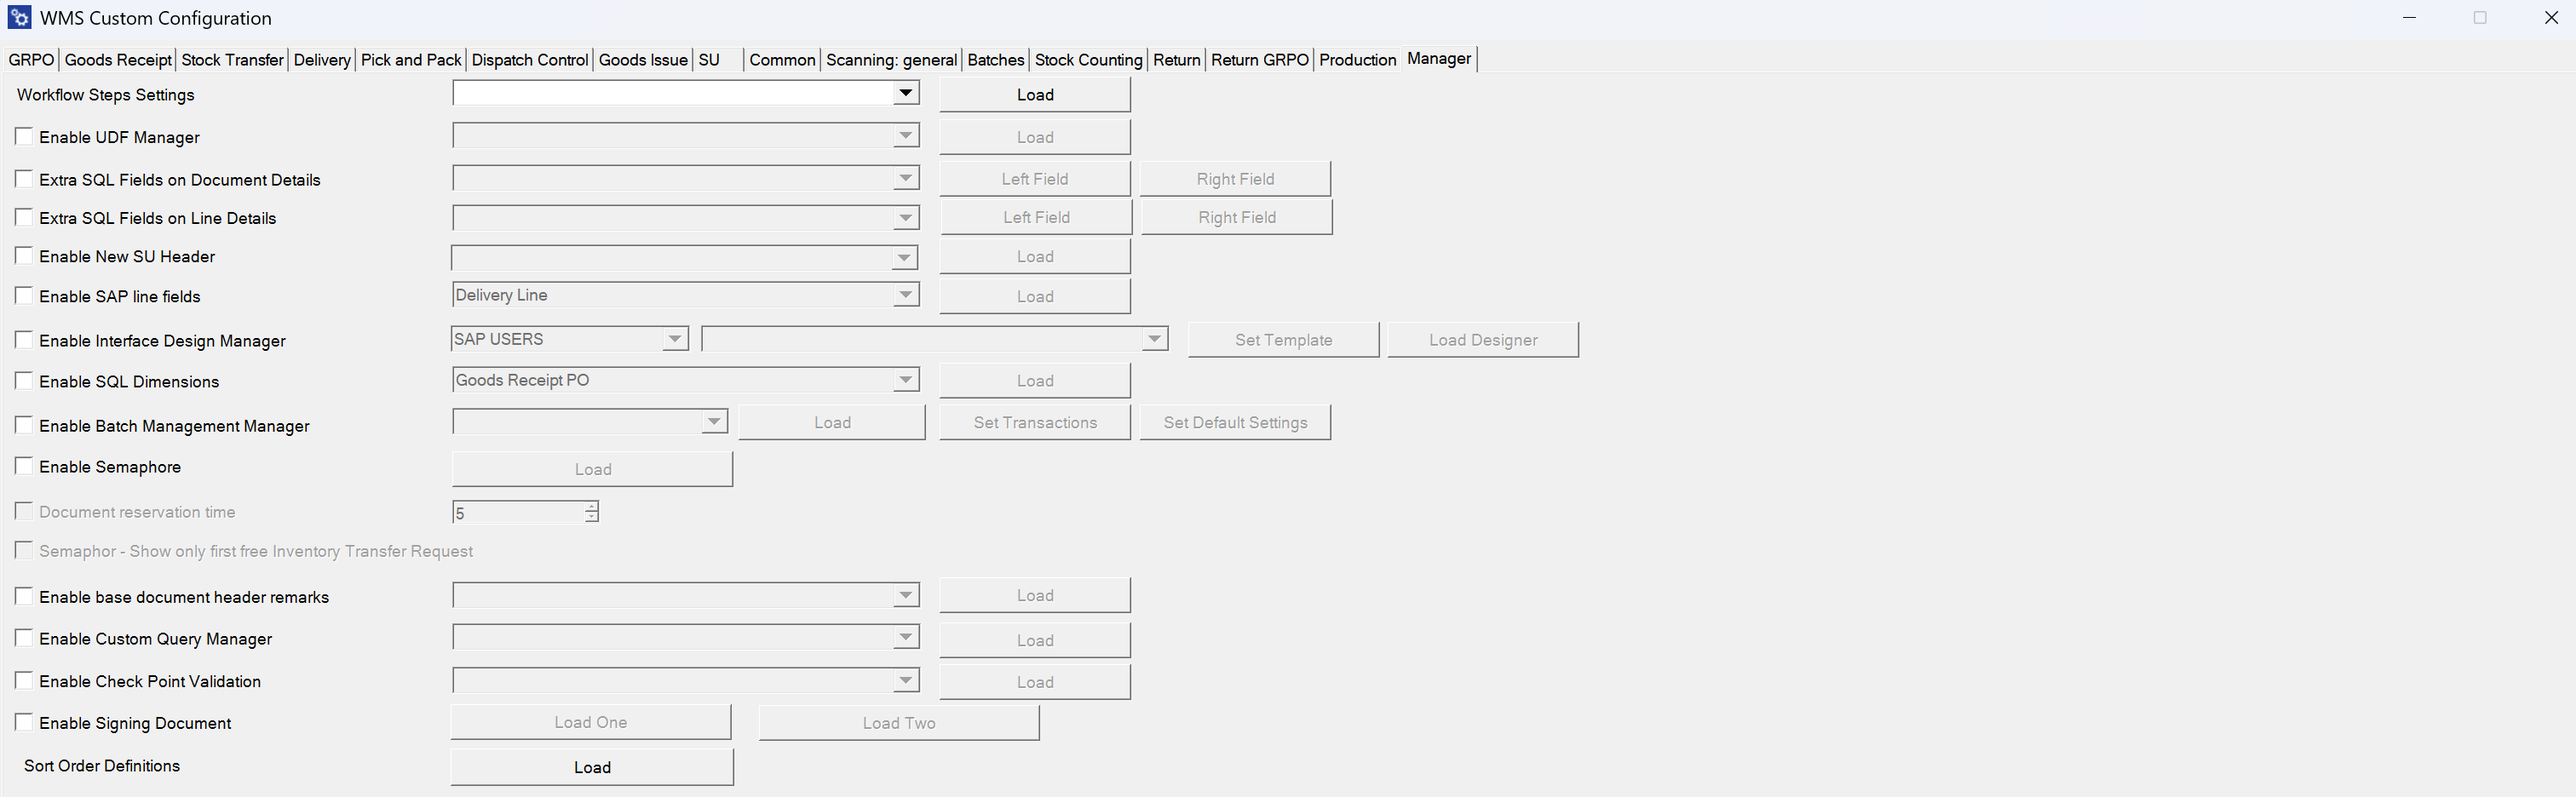
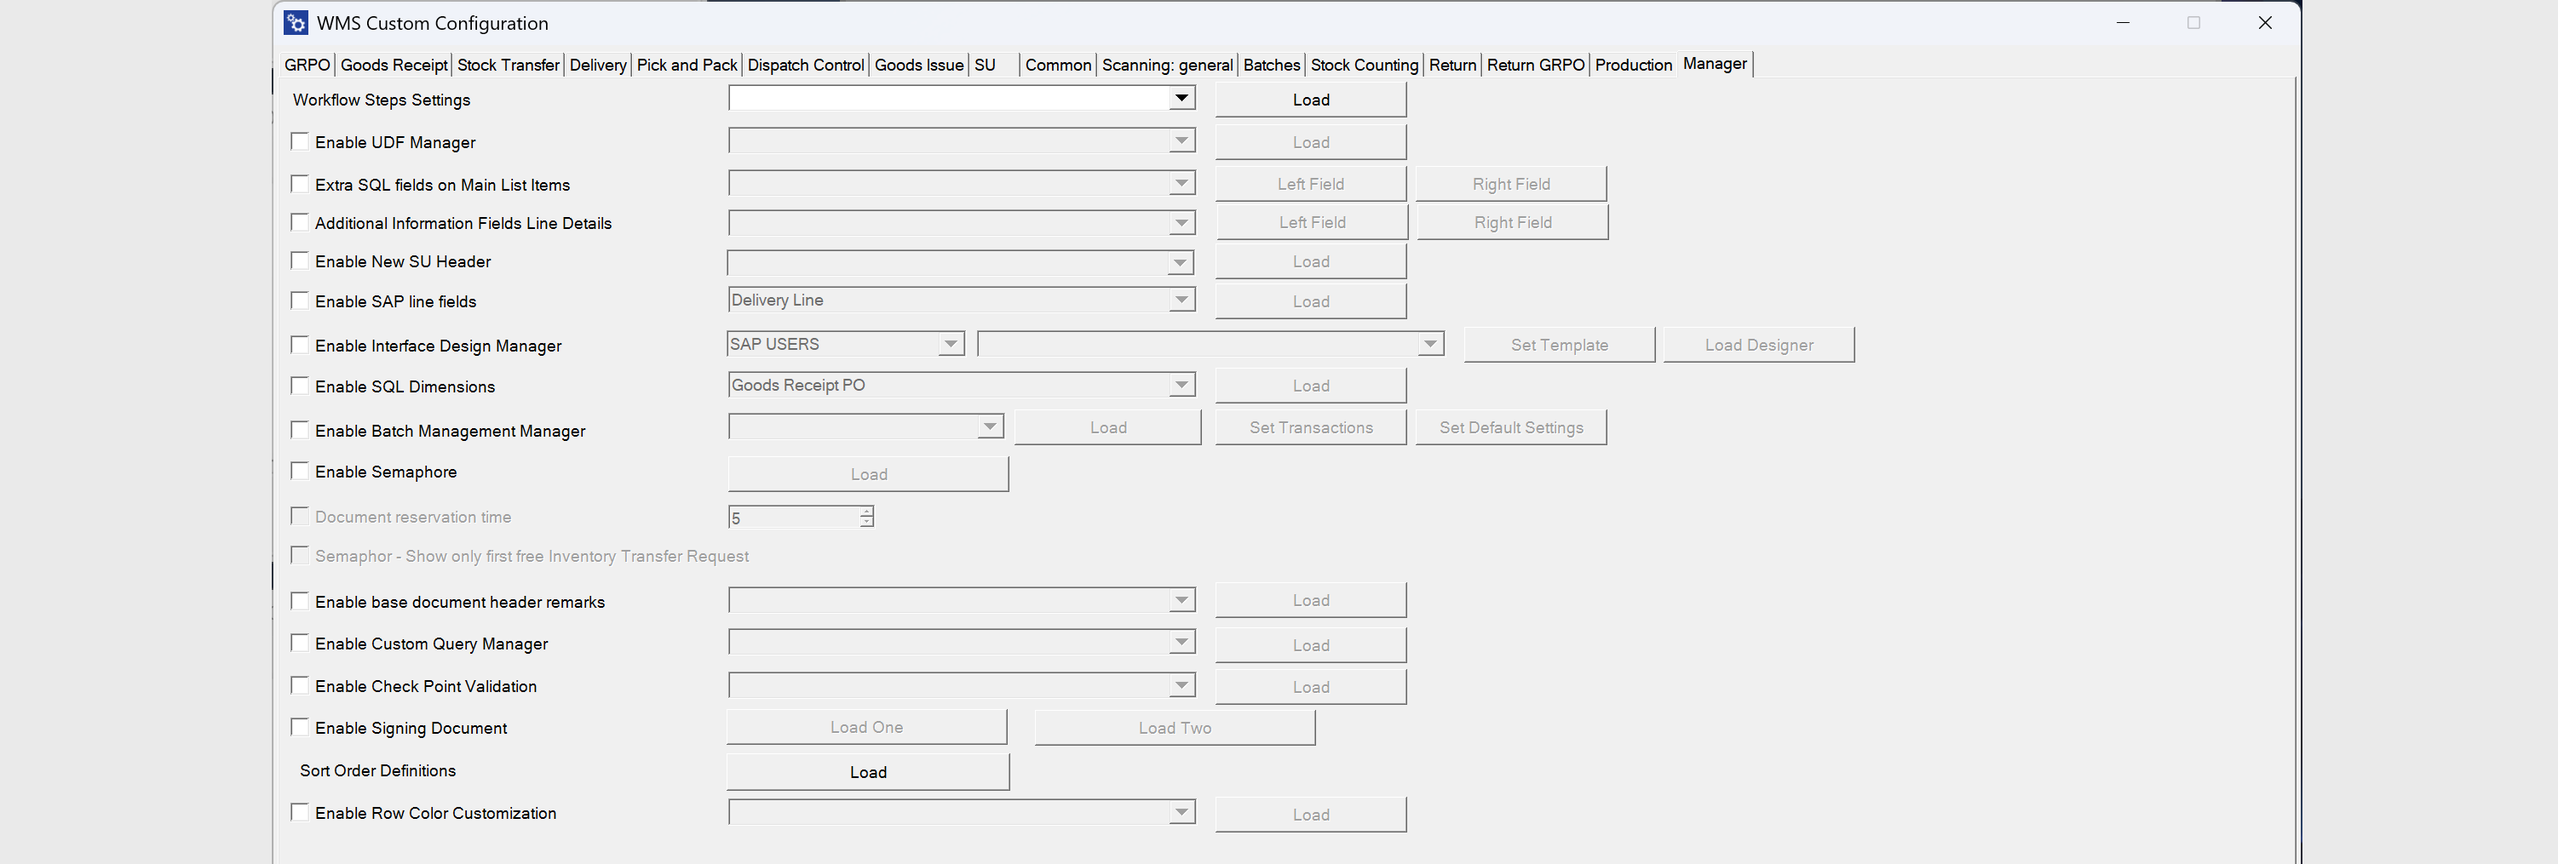
Add row color customization feature and update related documentation to WMS guide

diff --git a/docs/wms/administrator-guide/custom-configuration/custom-configuration-functions/manager/row-color-cust.md b/docs/wms/administrator-guide/custom-configuration/custom-configuration-functions/manager/row-color-cust.md
@@ -1,0 +1,89 @@
+---
+sidebar_position: 15
+---
+
+# Enable Row Color Customization
+
+**Row Color Customization** allows you to apply custom background and text colors to document rows based on SQL query results. This helps users quickly identify specific items or document lines during warehouse operations.
+
+You can define conditions using SQL and assign different colors when those conditions are met.
+
+## Before you start
+
+Before configuring this feature, ensure that:
+
+- You have permission to modify the **WMS Custom Configuration**.
+- The SQL query returns the required result format.
+- The **WMS Server** is restarted after saving the configuration.
+
+## Configure row color customization
+
+To configure row color customization, follow these steps:
+
+1. Open **WMS Custom Configuration**.
+2. Select **Enable Row Color Customization**.
+
+    ![alt text](media/row-color-cust/wms-enab-row-col-cust1.png)
+
+3. Select the transaction for which you want to configure row colors.
+
+    ![alt text](media/row-color-cust/wms-enab-row-col-cust2.png)
+
+4. Click **Load**.
+
+    ![alt text](media/row-color-cust/wms-enab-row-col-cust3.png)
+
+5. Enter your SQL query, amd click **Save**.
+
+    ![alt text](media/row-color-cust/wms-enab-row-col-cust4.png)
+
+     :::info[note]
+
+    The query must return exactly one row with the following two columns:
+
+    | Column | Description |
+    | --- | --- |
+    | ``Background`` | Background color in hexadecimal format (for example, ``#RRGGBB``). |
+    | ``Text`` | Text color in hexadecimal format (for example, ``#RRGGBB``). |
+
+    :::
+
+6. Restart the **WMS Server**.
+7. Done! You've configured row color cutomization.
+
+## Example
+
+The following query changes the row colors based on the item code:
+
+```sql
+SELECT
+CASE
+    WHEN @ItemCode = 'N1' THEN '#0B31A5'
+    WHEN @ItemCode = 'B1' THEN '#8BC7F7'
+    ELSE ''
+END AS "Background",
+CASE
+    WHEN @ItemCode = 'N1' THEN '#883434'
+    WHEN @ItemCode = 'B1' THEN '#102D14'
+    ELSE ''
+END AS "Text"
+FROM DUMMY;
+```
+
+    ![alt text](media/row-color-cust/wms-enab-row-col-cust6.png)
+
+## Result
+
+When the SQL query returns a row, **CompuTec WMS** applies the returned colors to the corresponding document line.
+
+If the query **does not** return color values, the **standard row colors** configured for the transaction are used.
+
+    ![alt text](media/row-color-cust/wms-enab-row-col-cust5.png)
+
+## Additional information
+
+- The SQL query can reference transaction parameters, including document header fields, line fields, and User-Defined Fields (UDFs).
+- Available parameters are displayed in the SQL editor.
+- The feature is configured separately for each transaction.
+- Color values must be specified as hexadecimal color codes (for example, ``#0B31A5`` or ``#FFFFFF``).
+- Restarting the **WMS Server** is required for configuration changes to take effect.

diff --git a/docs/wms/administrator-guide/custom-configuration/custom-configuration-functions/manager/overview.md b/docs/wms/administrator-guide/custom-configuration/custom-configuration-functions/manager/overview.md
@@ -62,3 +62,5 @@ Here’s a rundown of the key settings available in the **Manager** tab.
 17. **Enable Signing Documents** – This option enables document signing within the system, providing a secure way to authorize transactions. [Read more](enable-signing-document.md)
 
 18. **Sort Order Definitions** - This option allows you to create and assign a template that defines custom sorting rules in the document details window. In the WMS client, users can select the required sorting template from a predefined list. [Read more](docs\wms\administrator-guide\custom-configuration\custom-configuration-functions\manager\sort-order-def.md)
+
+19. **Enable Row Color Customization** - This setting allows you to customize the appearance of document rows by applying background and text colors based on SQL query results. This helps users quickly identify specific rows during warehouse operations. [Read more](http://learn.computec.one/docs/wms/administrator-guide/custom-configuration/custom-configuration-functions/manager/row-color-cust)

diff --git a/docs/wms/administrator-guide/custom-configuration/custom-configuration-functions/manager/semaphore.md b/docs/wms/administrator-guide/custom-configuration/custom-configuration-functions/manager/semaphore.md
@@ -2,7 +2,7 @@
 sidebar_position: 13
 ---
 
-# Semaphore
+# Enable Semaphore
 
 When the option is activated, a document one user chooses is unavailable for another.
 
